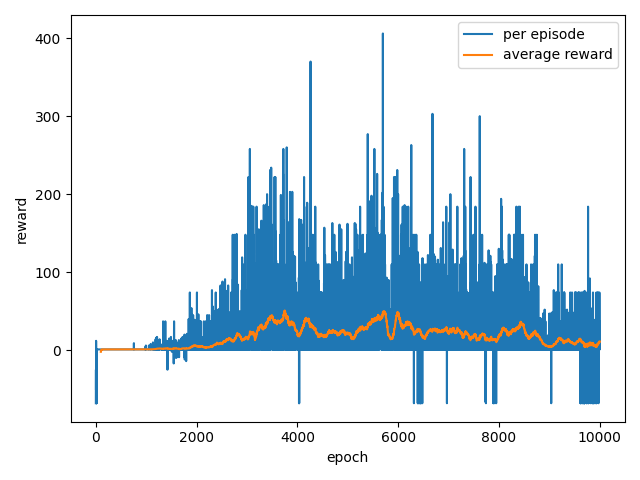
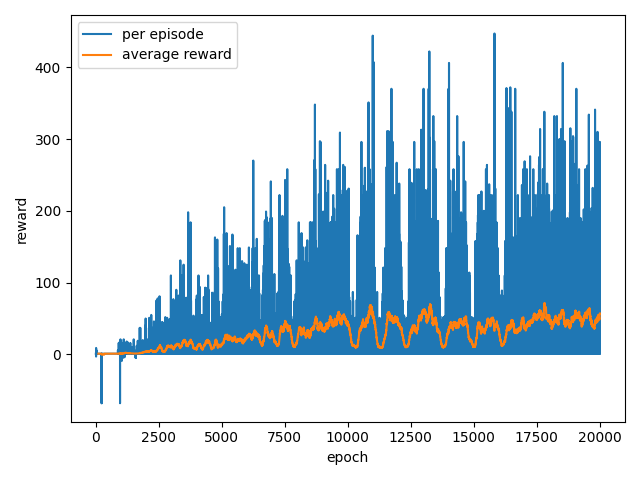
better model , hyperparam tuned

diff --git a/src/dqn_model_class.py b/src/dqn_model_class.py
@@ -7,15 +7,15 @@ class DeepQNetwork(nn.Module):
         super(DeepQNetwork, self).__init__()
         #   Create layers
         self.fc1 = nn.Linear(in_features=2, out_features=64)
-        self.fc2 = nn.Linear(in_features=64, out_features=32)
-        self.out = nn.Linear(in_features=32, out_features=2)
+        #self.fc2 = nn.Linear(in_features=64, out_features=128)
+        self.out = nn.Linear(in_features=64, out_features=2)
 
 
     def forward(self, state):
         #   Implement forward pass
         state = torch.as_tensor(state, dtype = torch.float32)
         state = F.relu(self.fc1(state))
-        state = F.relu(self.fc2(state))
+        #state = F.relu(self.fc2(state))
         Q = self.out(state)
 
         return Q

diff --git a/src/dqn_train.py b/src/dqn_train.py
@@ -1,4 +1,4 @@
-
+from pathlib import Path
 from copy import deepcopy
 import numpy as np
 import pandas as pd
@@ -18,7 +18,7 @@ batch_size = 64
 NETWORK_UPDATE_FREQUENCY = 4
 NETWORK_SYNC_FREQUENCY = 2000
 gamma = 0.99
-episodes = 10000
+episodes = 20000
 replay_buffer_size = 0  #
 
 
